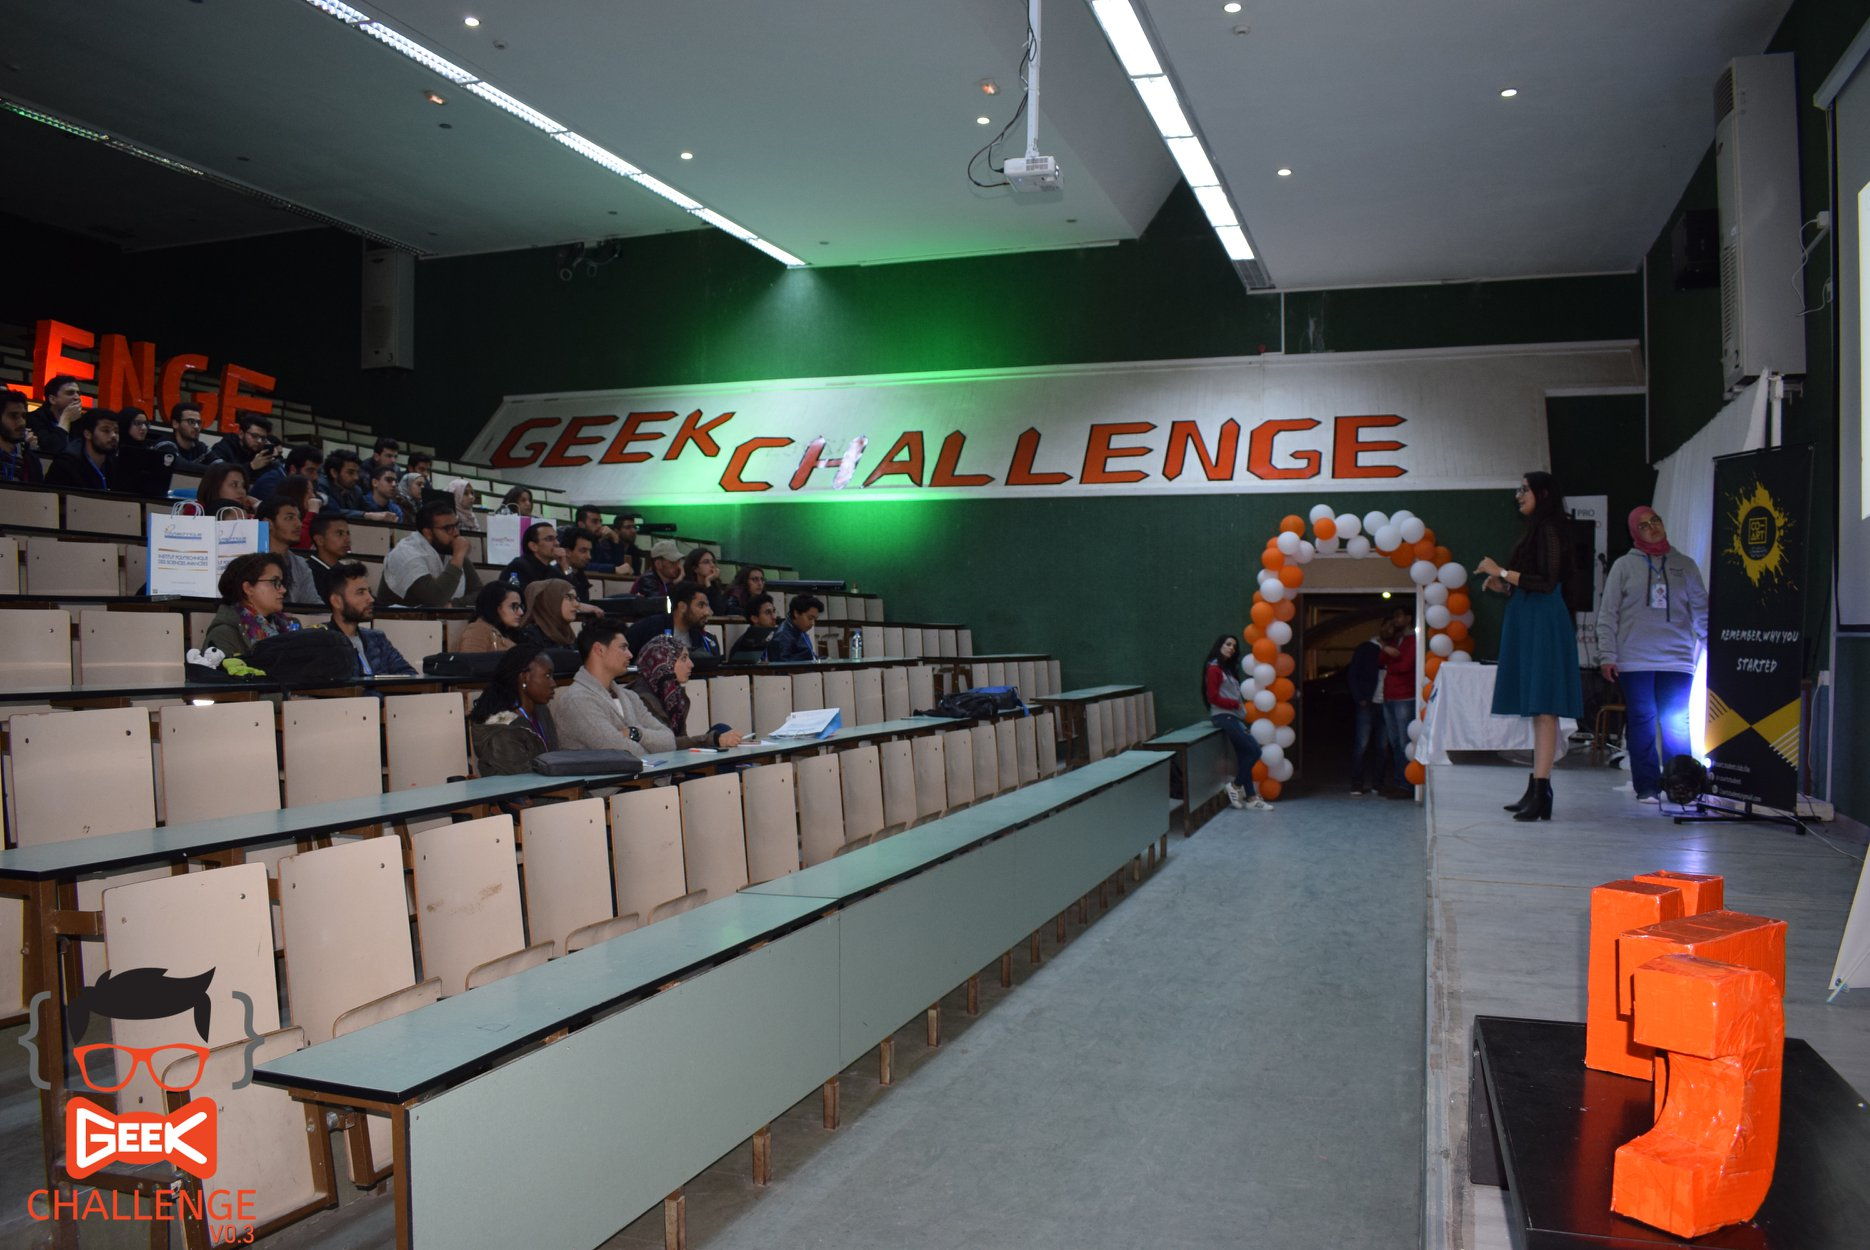
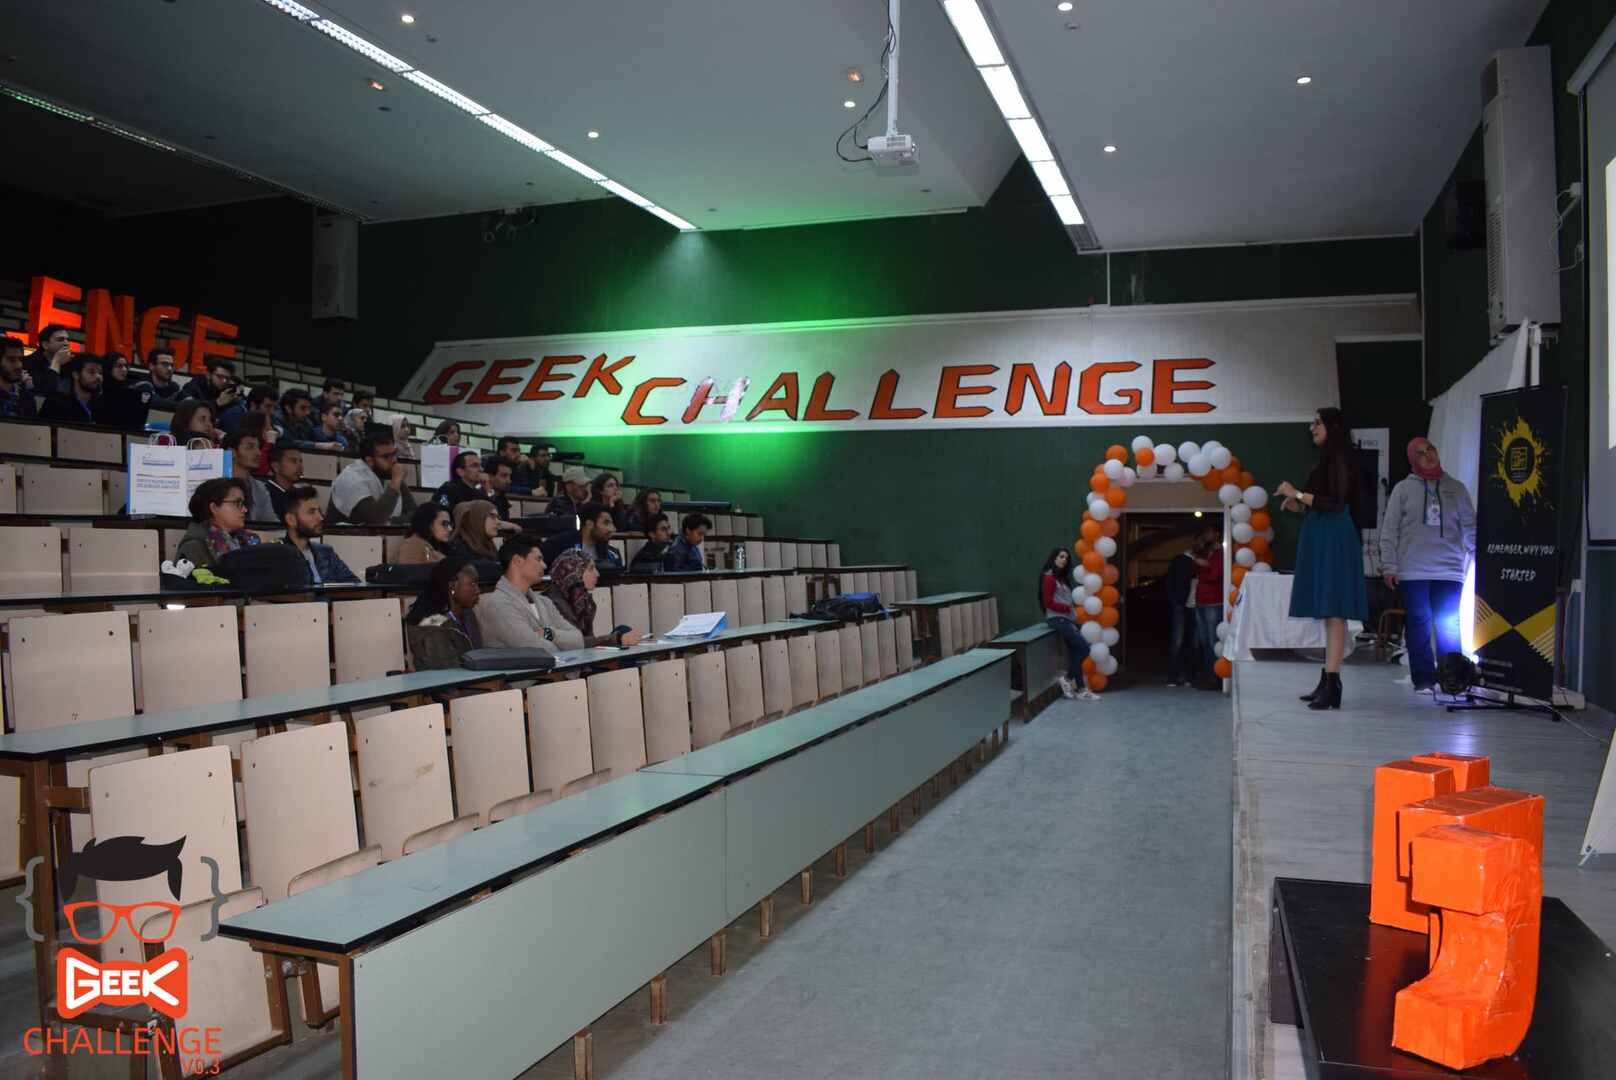
Image Size optimization ( lmao got dist down to 3.8mb )

Changed region(s): [[0.0, 0.825, 0.1547, 1.0], [0.3713, 0.3361, 0.4022, 0.3667]]

diff --git a/src/styles/home.css b/src/styles/home.css
@@ -144,7 +144,7 @@
 
 .section3Content {
   position: relative;
-  z-index: 5;
+  z-index: 2;
   display: flex;
   flex-direction: column;
   justify-content: space-around;
